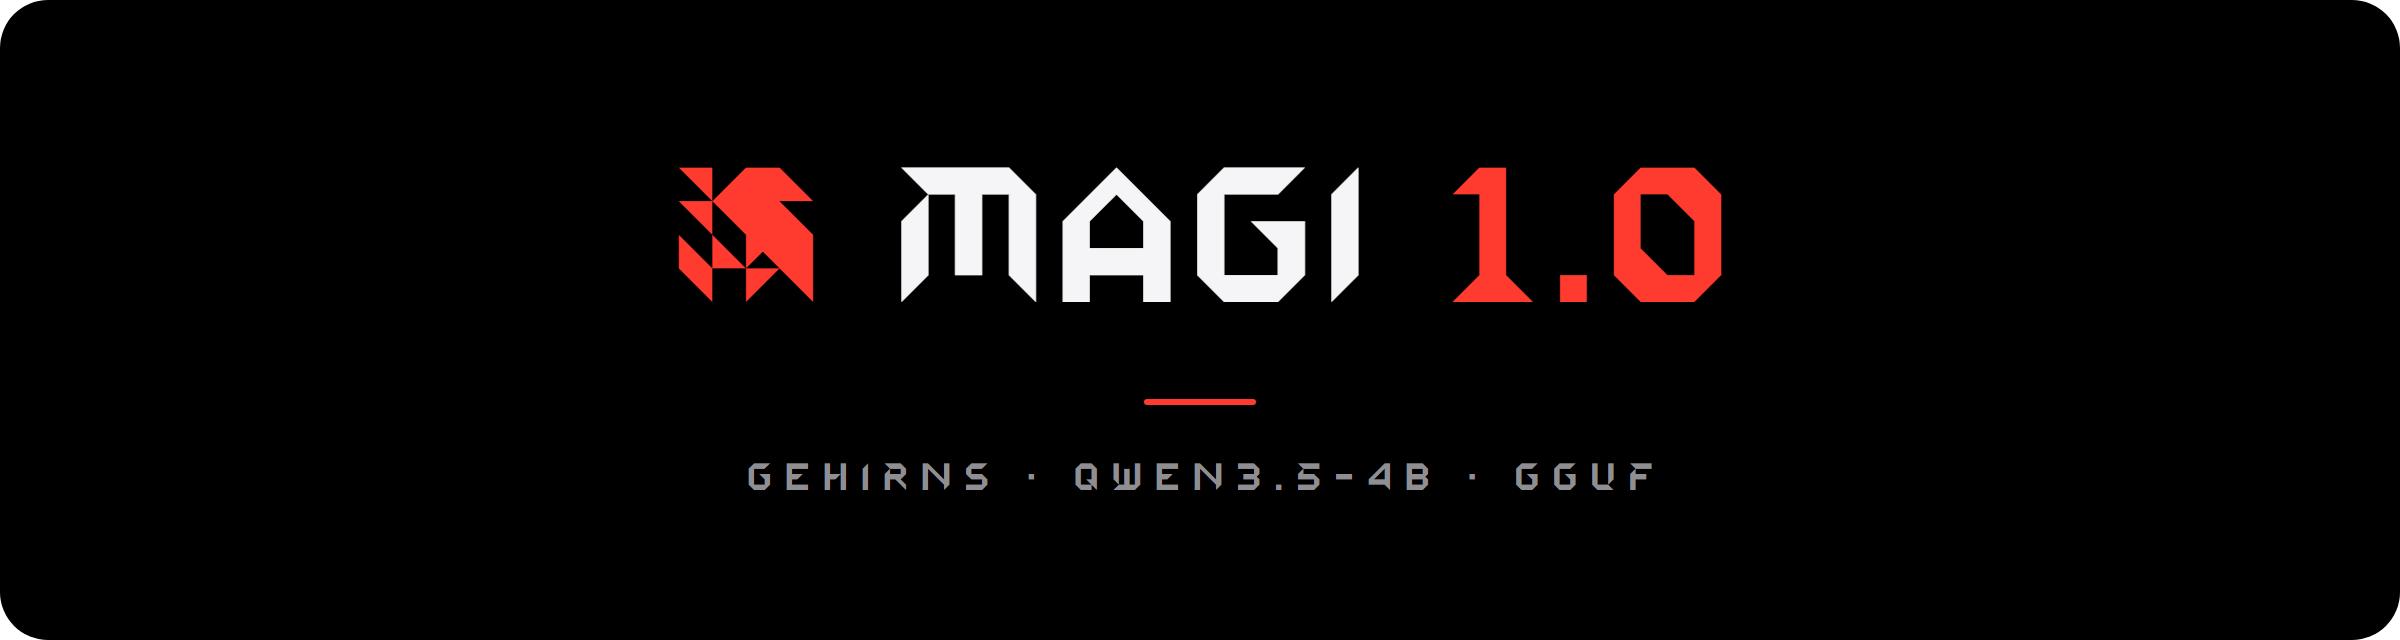
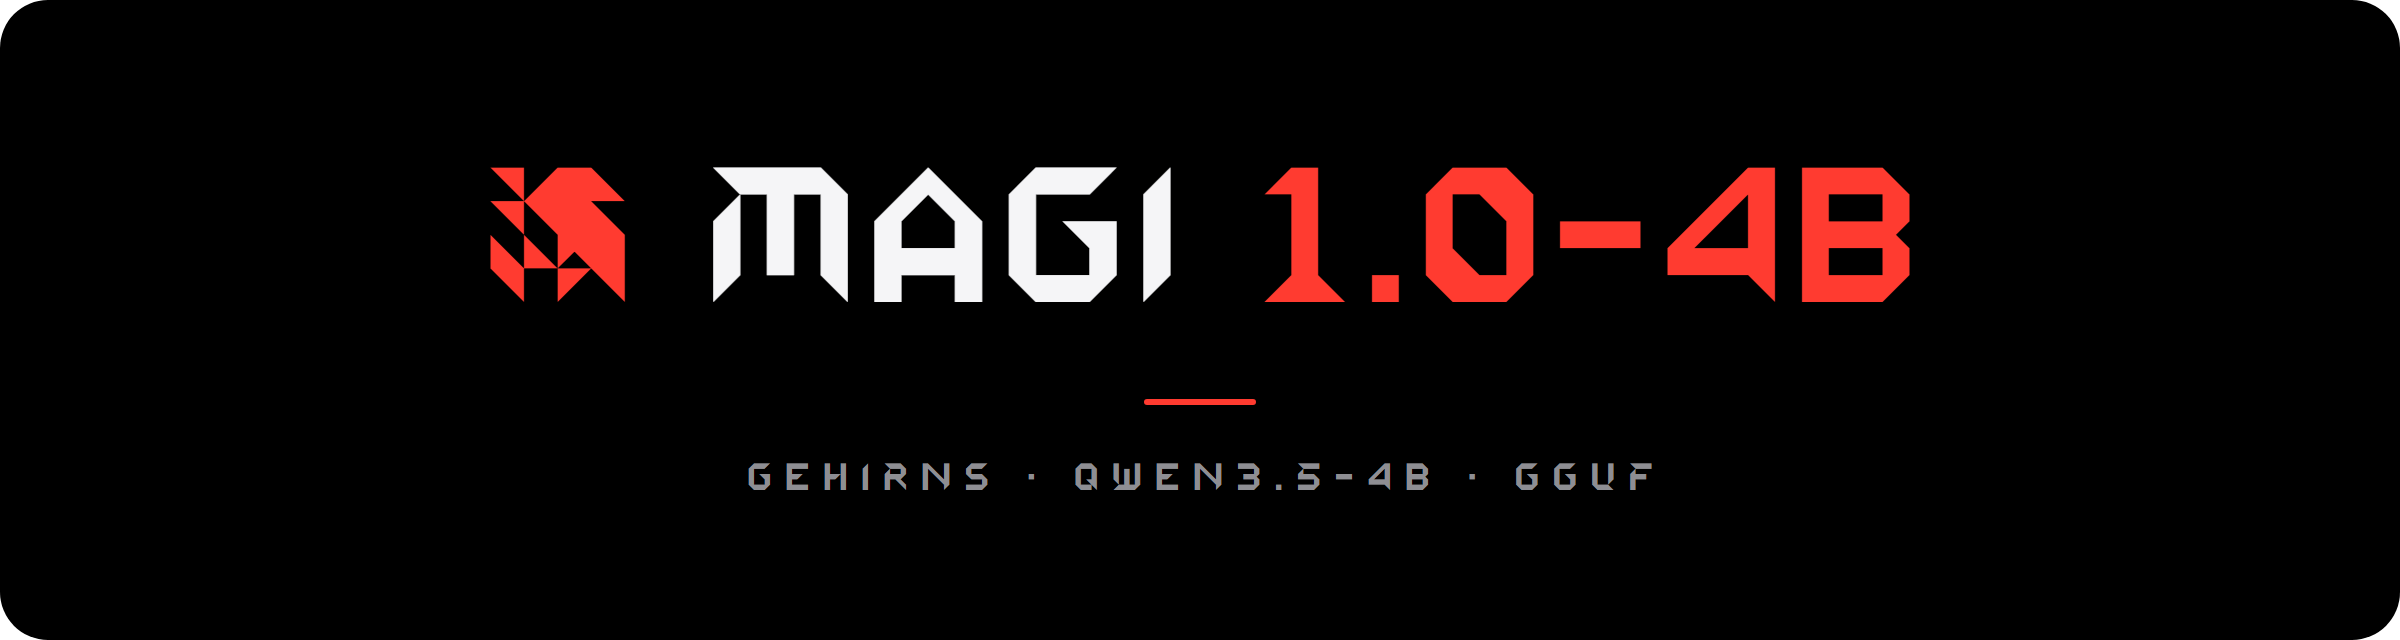
Rename the released model to magi-1.0-4B
The Hugging Face repo is now GEHIRNS/magi-1.0-4B (GEHIRNS/magi-1.0 redirects)
and the file is magi-1.0-4B.gguf, with the same bytes and SHA-256 26b4f5b3. The
paper and the data notes keep the name magi-1.0, and data/README.md says so.
The recipe files keep their names. The README images are re-rendered with the
new name.

Changed region(s): [[0.1875, 0.25, 0.8125, 0.4688]]

diff --git a/README.md b/README.md
@@ -1,16 +1,16 @@
 <p align="center"><img src="images/banner.png" alt="MAGI 1.0 · GEHIRNS · Qwen3.5-4B · GGUF" width="100%"></p>
 
-# magi-1.0
+# magi-1.0-4B
 
 **Qwen3.5-4B in 1.8 GiB, with no training. The bits go where the model needs them.**
 
-magi-1.0 is a training-free mixed-precision quantization of [Qwen/Qwen3.5-4B](https://huggingface.co/Qwen/Qwen3.5-4B) by the Qwen team, made by GEHIRNS. The weights are Qwen's own; we only chose how many bits each part of the model gets, using standard GGUF formats. It runs unmodified in llama.cpp and Ollama.
+magi-1.0-4B (called magi-1.0 in the paper and released under that name until 2026-11-07) is a training-free mixed-precision quantization of [Qwen/Qwen3.5-4B](https://huggingface.co/Qwen/Qwen3.5-4B) by the Qwen team, made by GEHIRNS. The weights are Qwen's own; we only chose how many bits each part of the model gets, using standard GGUF formats. It runs unmodified in llama.cpp and Ollama.
 
-**Model:** [huggingface.co/GEHIRNS/magi-1.0](https://huggingface.co/GEHIRNS/magi-1.0) · **Paper:** [Where the Bits Go (PDF)](paper/where-the-bits-go.pdf) · **DOI:** [10.5281/zenodo.23630199](https://doi.org/10.5281/zenodo.23630199) · **Website:** [gehirns.pages.dev](https://gehirns.pages.dev/)
+**Model:** [huggingface.co/GEHIRNS/magi-1.0-4B](https://huggingface.co/GEHIRNS/magi-1.0-4B) · **Paper:** [Where the Bits Go (PDF)](paper/where-the-bits-go.pdf) · **DOI:** [10.5281/zenodo.23630199](https://doi.org/10.5281/zenodo.23630199) · **Website:** [gehirns.pages.dev](https://gehirns.pages.dev/)
 
-<p align="center"><img src="images/headline.png" alt="magi-1.0 with an 8-bit KV cache vs Qwen3.5-4B BF16: 3.4× less GPU memory, 96% of the benchmark score, 2.7× faster decoding, 3.0× capability per GiB" width="100%"></p>
+<p align="center"><img src="images/headline.png" alt="magi-1.0-4B with an 8-bit KV cache vs Qwen3.5-4B BF16: 3.4× less GPU memory, 96% of the benchmark score, 2.7× faster decoding, 3.0× capability per GiB" width="100%"></p>
 
-The headline ratios are for magi-1.0 served with an 8-bit KV cache. With the default 16-bit cache, magi-1.0 needs 3.0× less GPU memory than BF16 and has 2.7× its capability per GiB.
+The headline ratios are for magi-1.0-4B served with an 8-bit KV cache. With the default 16-bit cache, magi-1.0-4B needs 3.0× less GPU memory than BF16 and has 2.7× its capability per GiB.
 
 ## Results
 
@@ -21,47 +21,47 @@ Every model ran on the same setup:
 
 | Model | Benchmark score | GPU memory (GiB) | Capability per GiB | Decode speed (tok/s) |
 |---|---|---|---|---|
-| **magi-1.0 + 8-bit KV cache** | 80.64% | **2.65** | **0.893** | 181.4 |
-| **magi-1.0** | 81.30% | 3.02 | 0.800 | 180.0 |
+| **magi-1.0-4B + 8-bit KV cache** | 80.64% | **2.65** | **0.893** | 181.4 |
+| **magi-1.0-4B** | 81.30% | 3.02 | 0.800 | 180.0 |
 | magi-beta-1 | 80.65% | ≈3.07 | ≈0.771 | 181.0 |
 | Qwen3.5-4B Q4_K_M (Unsloth) | 84.14% | 3.78 | 0.703 | 146.6 |
 | Qwen3.5-4B Q2_K (bartowski) | 77.06% | 3.15 | 0.675 | 165.5 |
 | Qwen3.5-4B BF16 | 83.96% | 8.98 | 0.294 | 66.3 |
 
 - **Capability per GiB** = −log₂(1 − score) / GiB: how many times the error rate is halved for each gibibyte of GPU memory.
-- **GPU memory** is the resident size that Ollama reports with a 32K context loaded. It does not include the CUDA context, which is about 1.05 GiB for every model. Counting it, the density ratio between magi-1.0 + 8-bit KV and BF16 falls from 3.0× to 2.4×, and the ranking stays the same.
+- **GPU memory** is the resident size that Ollama reports with a 32K context loaded. It does not include the CUDA context, which is about 1.05 GiB for every model. Counting it, the density ratio between magi-1.0-4B + 8-bit KV and BF16 falls from 3.0× to 2.4×, and the ranking stays the same.
 - magi-beta-1's memory was read from Ollama's rounded display, so it is accurate only to about ±0.05 GiB.
 
-<p align="center"><img src="images/capability-density.png" alt="Capability density: magi-1.0 + q8 KV 0.893, magi-1.0 0.800, magi-beta-1 0.771, Q4_K_M 0.703, Q2_K 0.675, BF16 0.294" width="100%"></p>
+<p align="center"><img src="images/capability-density.png" alt="Capability density: magi-1.0-4B + q8 KV 0.893, magi-1.0-4B 0.800, magi-beta-1 0.771, Q4_K_M 0.703, Q2_K 0.675, BF16 0.294" width="100%"></p>
 
-**The honest trade-off:** Q4_K_M scores within 0.2 points of BF16 and 2.85 points above magi-1.0, but it needs 0.76 GiB more memory (1.13 GiB more than magi-1.0 with the 8-bit cache).
+**The honest trade-off:** Q4_K_M scores within 0.2 points of BF16 and 2.85 points above magi-1.0-4B, but it needs 0.76 GiB more memory (1.13 GiB more than magi-1.0-4B with the 8-bit cache).
 - **Accuracy matters most:** use Q4_K_M.
-- **Memory is the limit:** use magi-1.0.
+- **Memory is the limit:** use magi-1.0-4B.
 
 ## How it works
 
 1. **Measure.** We lower one kind of tensor at a time and count how often the model's top next-token choice stops matching full precision, on its own reasoning and chat. The most sensitive tensors turn out to be small: the attention value, key and output projections and the DeltaNet output projection.
 2. **Allocate.** A fixed size budget is spent where the measured damage per byte is largest. The small sensitive projections and the embedding get 4.5–8.5 bits; the large FFN matrices get 3.06 bits. The average is 3.65 bits per weight.
-3. **Check behaviour.** Candidates are screened on 126 reasoning tasks, 86 of which a 2-bit file fails and a 4-bit file solves. Relative to Q2_K, magi-1.0's gain comes almost entirely from fewer runaway reasoning loops: 21% of its failed tasks end in a loop, against 59% for Q2_K.
+3. **Check behaviour.** Candidates are screened on 126 reasoning tasks, 86 of which a 2-bit file fails and a 4-bit file solves. Relative to Q2_K, magi-1.0-4B's gain comes almost entirely from fewer runaway reasoning loops: 21% of its failed tasks end in a loop, against 59% for Q2_K.
 
-At each of three sizes, this allocation diverges less from full precision than all three random placements of the same bytes, on the divergence objective; random placements were not run on the full benchmark. Against a uniform assignment of the same formats the evidence is weaker: at the smallest size the two tie (0.4 points of divergence, within about one standard error) with the allocation using 0.04 GiB less, and at magi-1.0's size the allocation is about 1 point lower (interpolated, because the sizes differ). The details are in the [paper](paper/where-the-bits-go.pdf).
+At each of three sizes, this allocation diverges less from full precision than all three random placements of the same bytes, on the divergence objective; random placements were not run on the full benchmark. Against a uniform assignment of the same formats the evidence is weaker: at the smallest size the two tie (0.4 points of divergence, within about one standard error) with the allocation using 0.04 GiB less, and at magi-1.0-4B's size the allocation is about 1 point lower (interpolated, because the sizes differ). The details are in the [paper](paper/where-the-bits-go.pdf).
 
 ## Run it
 
 **Ollama**, straight from Hugging Face:
 
 ```bash
-ollama run hf.co/GEHIRNS/magi-1.0
+ollama run hf.co/GEHIRNS/magi-1.0-4B
 ```
 
-The benchmarks used a 32K context. Inside the session run `/set parameter num_ctx 32768`, or download the `Modelfile` from the Hugging Face repo and run `ollama create magi-1.0 -f Modelfile`. To get the 8-bit KV cache, start the Ollama server with `OLLAMA_FLASH_ATTENTION=1` and `OLLAMA_KV_CACHE_TYPE=q8_0`.
+The benchmarks used a 32K context. Inside the session run `/set parameter num_ctx 32768`, or download the `Modelfile` from the Hugging Face repo and run `ollama create magi-1.0-4B -f Modelfile`. To get the 8-bit KV cache, start the Ollama server with `OLLAMA_FLASH_ATTENTION=1` and `OLLAMA_KV_CACHE_TYPE=q8_0`.
 
-**llama.cpp**, with `magi-1.0.gguf` downloaded from Hugging Face:
+**llama.cpp**, with `magi-1.0-4B.gguf` downloaded from Hugging Face:
 
 ```bash
-llama-server -m magi-1.0.gguf -c 32768 --jinja
+llama-server -m magi-1.0-4B.gguf -c 32768 --jinja
 # 8-bit KV cache (2.65 GiB):
-llama-server -m magi-1.0.gguf -c 32768 --jinja --flash-attn on --cache-type-k q8_0 --cache-type-v q8_0
+llama-server -m magi-1.0-4B.gguf -c 32768 --jinja --flash-attn on --cache-type-k q8_0 --cache-type-v q8_0
 ```
 
 All benchmark numbers were measured without a system prompt.
@@ -70,23 +70,23 @@ All benchmark numbers were measured without a system prompt.
 
 | | |
 |---|---|
-| [GEHIRNS/magi-1.0](https://huggingface.co/GEHIRNS/magi-1.0) | recommended |
+| [GEHIRNS/magi-1.0-4B](https://huggingface.co/GEHIRNS/magi-1.0-4B) | recommended |
 | [GEHIRNS/magi-beta-1](https://huggingface.co/GEHIRNS/magi-beta-1) | experimental: same recipe, full-attention key/value/output at Q6_K |
 | [MAGI collection](https://huggingface.co/collections/GEHIRNS/magi-6adaeeaefd1d999584a8a12d) · [MAGI experimental](https://huggingface.co/collections/GEHIRNS/magi-experimental-6ad6a94511ffd4dabaa7b24a) | all releases |
 
 ## Reproduce
 
 - **Build the models:** [`recipe/BUILD.md`](recipe/BUILD.md) rebuilds both files from Qwen3.5-4B BF16 with one `llama-quantize` call each, using the override files and importance matrix in [`recipe/`](recipe/).
-- **Check a build:** `python recipe/verify_tensors.py magi-1.0.gguf recipe/magi-1.0.tensor-types.tsv` compares every tensor's type and data hash with the release. The released files were built with this kit, so a rebuild run the same way from the repository root matches them byte for byte. The builds we originally benchmarked differ from them only in two metadata strings that held local paths; all 426 tensors match.
+- **Check a build:** `python recipe/verify_tensors.py magi-1.0-4B.gguf recipe/magi-1.0.tensor-types.tsv` compares every tensor's type and data hash with the release. The released files were built with this kit, so a rebuild run the same way from the repository root matches them byte for byte. The builds we originally benchmarked differ from them only in two metadata strings that held local paths; all 426 tensors match.
 - **Check the numbers:** [`data/`](data/) holds the data behind every table and figure, including per-task pass/fail and loop flags for the six benchmarked configurations. See [`data/README.md`](data/README.md).
 - **Not released yet:** the evaluation harness, prompts, model outputs and the in-house ToolCall suite.
 
 ## Limitations
 
-- **Scope:** one model, one runtime (Ollama 0.40.3) and one benchmark; each configuration ran the full benchmark once. Where magi-1.0 ran the 126 screening tasks twice (with either KV cache), the outputs were identical.
+- **Scope:** one model, one runtime (Ollama 0.40.3) and one benchmark; each configuration ran the full benchmark once. Where magi-1.0-4B ran the 126 screening tasks twice (with either KV cache), the outputs were identical.
 - **magi-beta-1 was not screened as released.** A pre-release build with the same tensor types but a different importance matrix passed the behaviour screen. On the same 126 tasks, the released file (from its full run) solves 51 of the 86 decisive tasks, one short of the screen's bar of 52, so it stays experimental.
 - **Hard coding:** the largest loss against BF16 is on hard coding problems, LiveCodeBench 24.67% against 35.33%.
-- **Overlap:** the 126 screening tasks are part of the benchmark. Without them, magi-1.0 still leads Q2_K, by 1.4 points instead of 4.2.
+- **Overlap:** the 126 screening tasks are part of the benchmark. Without them, magi-1.0-4B still leads Q2_K, by 1.4 points instead of 4.2.
 - **Loop counts** come from a compression rule that has not been checked against hand labels.
 - **Leaner settings:** in the configurations tested, fewer bits on the least sensitive tensors came with more loops. In the leanest candidate screened, the FFN cuts brought two to three times as many loops (22 against 10 and 27 against 9, between builds with the same importance matrix), whichever precision the attention projections had. A longer thinking budget did not significantly improve solves. See "Limits of further compression" in the paper.
 
@@ -105,4 +105,4 @@ All benchmark numbers were measured without a system prompt.
 
 ## License
 
-Apache-2.0, the same as Qwen3.5-4B. magi-1.0 contains the Qwen team's weights in a different mix of quantization formats. See [LICENSE](LICENSE).
+Apache-2.0, the same as Qwen3.5-4B. magi-1.0-4B contains the Qwen team's weights in a different mix of quantization formats. See [LICENSE](LICENSE).

diff --git a/recipe/BUILD.md b/recipe/BUILD.md
@@ -1,4 +1,4 @@
-# Rebuilding magi-1.0 and magi-beta-1
+# Rebuilding magi-1.0-4B (magi-1.0 in the paper) and magi-beta-1
 
 Both models are Qwen3.5-4B with no training. Every weight tensor of the official model is re-quantized to a type chosen for its tensor class. A rebuild is one `llama-quantize` call that runs on the CPU in about two minutes.
 
@@ -25,7 +25,7 @@ From the repository root:
 llama-quantize --pure \
   --imatrix recipe/imatrix-own-traces.gguf \
   --tensor-type-file recipe/magi-1.0.overrides.txt \
-  Qwen3.5-4B-BF16.gguf magi-1.0.gguf IQ2_XXS
+  Qwen3.5-4B-BF16.gguf magi-1.0-4B.gguf IQ2_XXS
 
 llama-quantize --pure \
   --imatrix recipe/imatrix-own-traces.gguf \
@@ -37,11 +37,11 @@ llama-quantize --pure \
 - `IQ2_XXS` is only the fallback type for tensors that no rule matches. Every quantizable tensor matches a rule, so no tensor gets it. It also sets `general.file_type` (19) as in the release.
 - The other 177 tensors (norms, the 4-tap DeltaNet convolution, A, Δt bias) stay in F32.
 - The thread count does not change the output: builds with 8 and 12 threads gave identical tensors.
-- magi-beta-1 differs from magi-1.0 only in the 24 full-attention key, value and output projections, which are Q6_K instead of Q4_K.
+- magi-beta-1 differs from magi-1.0-4B only in the 24 full-attention key, value and output projections, which are Q6_K instead of Q4_K.
 
 | | Tensors | Tensor data | Bits per weight |
 |---|---|---|---|
-| magi-1.0 | 426 | 1,918,808,064 bytes (1,829.9 MiB) | 3.650 |
+| magi-1.0-4B | 426 | 1,918,808,064 bytes (1,829.9 MiB) | 3.650 |
 | magi-beta-1 | 426 | 1,951,248,384 bytes (1,860.9 MiB) | 3.712 |
 
 Bits per weight are over all 4,205,751,296 parameters. `magi-1.0.tensor-types.tsv` and `magi-beta-1.tensor-types.tsv` list every tensor with these columns:
@@ -57,7 +57,7 @@ The released files:
 
 | File | Bytes | SHA-256 |
 |---|---|---|
[3 lines of base64/hex data omitted]
 
 The released files were built with exactly the commands above, run from the repository root. A rebuild done the same way should therefore match the whole-file SHA-256.
@@ -66,7 +66,7 @@ To check the tensors of a rebuild, for example one made with other paths:
 
 ```sh
 pip install gguf
-python recipe/verify_tensors.py magi-1.0.gguf recipe/magi-1.0.tensor-types.tsv
+python recipe/verify_tensors.py magi-1.0-4B.gguf recipe/magi-1.0.tensor-types.tsv
 python recipe/verify_tensors.py magi-beta-1.gguf recipe/magi-beta-1.tensor-types.tsv
 ```
 

diff --git a/data/README.md b/data/README.md
@@ -1,5 +1,7 @@
 # Data behind the paper
 
+magi-1.0 in these files is the model released as [GEHIRNS/magi-1.0-4B](https://huggingface.co/GEHIRNS/magi-1.0-4B) (renamed on 2026-11-07; the paper keeps the name magi-1.0).
+
 All values were measured by us on one workstation: an RTX 5070 with 12 GB, running Windows 11 and Ollama 0.40.3. Columns computed from other columns are marked INFERRED. Table and figure numbers refer to `paper/where-the-bits-go.pdf`.
 
 The files contain numbers and task identifiers only: no problem text, prompts, model outputs or thinking traces.
